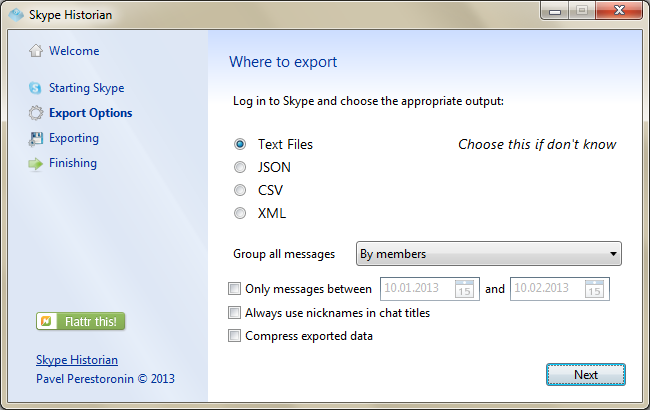
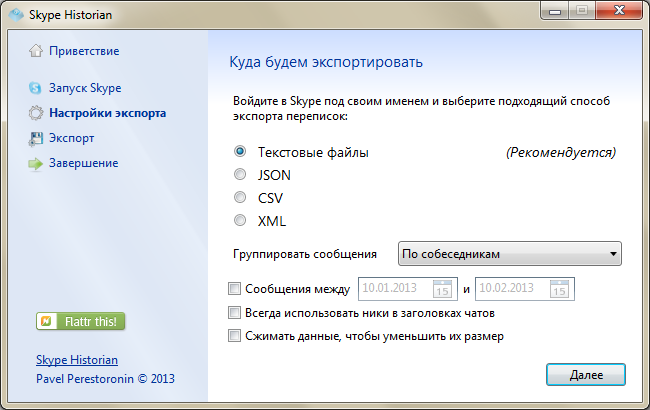
Russian version + small bugfixes

diff --git a/ru/index.html b/ru/index.html
@@ -58,11 +58,11 @@
           <a class="brand" href="">Skype Historian</a>
           <div class="nav-collapse collapse">
             <ul class="nav">
-              <li><a href="#about">About</a></li>
-              <li><a href="#screenshots">Screenshots</a></li>
-              <li><a href="#requirements">System Requirements</a></li>
-              <li><a href="#downloads">Downloads</a></li>
-              <li><a href="#news">News</a></li>
+              <li><a href="#about">О Skype Historian</a></li>
+              <li><a href="#screenshots">Скриншоты</a></li>
+              <li><a href="#requirements">Системные требования</a></li>
+              <li><a href="#downloads">Скачать</a></li>
+              <li><a href="#news">Новости</a></li>
             </ul>
           </div><!--/.nav-collapse -->
         </div>
@@ -77,7 +77,7 @@
         <div class="row">
           <div class="span12">
             <h1>Skype Historian</h1>
-            <p class="lead">Save your chats easily</p>
+            <p class="lead">простой способ сохранить историю Skype</p>
           </div>
         </div>
       </header>
@@ -87,17 +87,17 @@
       <section id="about">
 
         <div class="page-header">
-          <h1>About</h1>
+          <h1>О Skype Historian</h1>
         </div>
 
         <div class="row">
 
           <div class="span12">
-            <p>When you reinstall your operating system or change you computer you lose all your chats history. <strong>Skype Historian</strong> allows you to easily backup all your Skype chats to files in different formats. Files can also be compressed into a single ZIP archive.</p>
+            <p>Смена компьютера или переустановка операционной системы влечёт за собой потерю данных, в том числе, и историю ваших переписок. <strong>Skype Historian</strong> позволит вам сохранить эти переписки в различных форматах. Также можно сжать все данные в единственный ZIP архив.</p>
             <p>
-              <strong>Skype Historian</strong> allows to export your chats into the following formats:
+              С помощью <strong>Skype Historian</strong> вы сможете сохранить свои переписки в таких форматах, как:
               <ul>
-                <li>Plain Text Files</li>
+                <li>Простые текстовые файлы</li>
                 <li>JavaScript Object Notation</li>
                 <li>Comma-separated values</li>
                 <li>eXtensible Markup Language</li>
@@ -114,7 +114,7 @@
       <section id="screenshots">
 
         <div class="page-header">
-          <h1>Screenshots</h1>
+          <h1>Скриншоты</h1>
         </div>
 
         <div class="row">
@@ -123,22 +123,22 @@
             <ul class="thumbnails">
               <li class="span3">
                 <a href="images/screen-1.png" target="_blank" class="thumbnail">
-                  <img src="images/thumb-1.png" alt="Welcome Screen">
+                  <img src="images/thumb-1.png" alt="Приветствие">
                 </a>
               </li>
               <li class="span3">
                 <a href="images/screen-2.png" target="_blank" class="thumbnail">
-                  <img src="images/thumb-2.png" alt="Exporting Settings">
+                  <img src="images/thumb-2.png" alt="Настройки экспорта">
                 </a>
               </li>
               <li class="span3">
                 <a href="images/screen-3.png" target="_blank" class="thumbnail">
-                  <img src="images/thumb-3.png" alt="Exporting Process">
+                  <img src="images/thumb-3.png" alt="Экспортирование">
                 </a>
               </li>
               <li class="span3">
                 <a href="images/screen-4.png" target="_blank" class="thumbnail">
-                  <img src="images/thumb-4.png" alt="Finishing">
+                  <img src="images/thumb-4.png" alt="Завершение и статистика">
                 </a>
               </li>
             </ul>
@@ -153,17 +153,17 @@
       <section id="requirements">
 
         <div class="page-header">
-          <h1>System Requirements</h1>
+          <h1>Системные требования</h1>
         </div>
 
         <div class="row">
 
           <div class="span12">
-            <p><strong>Skype Historian</strong> runs pretty well on:
+            <p><strong>Skype Historian</strong> поддерживается:
               <ul>
                 <li><strong>Windows 8</strong></li>
                 <li><strong>Windows 7</strong></li>
-                <li>Windows XP with <a href="http://www.microsoft.com/download/en/details.aspx?id=21">.NET Framework 3.5</a> (or above) installed.</li>
+                <li>Windows XP с установленным <a href="http://www.microsoft.com/downloads/ru-ru/details.aspx?familyid=333325fd-ae52-4e35-b531-508d977d32a6">.NET Framework 3.5</a> (или выше).</li>
               </ul>
             </p>
           </div>
@@ -177,36 +177,36 @@
       <section id="downloads">
 
         <div class="page-header">
-          <h1>Downloads</h1>
+          <h1>Скачать</h1>
         </div>
 
         <div class="row">
 
           <div class="span12">
             <p>
-              You may download <strong>Skype Historian</strong> either from this site or our mirrors.
+              Вы можете скачать <strong>Skype Historian</strong> с этого сайта или одного из зеркал.
               <div class="btn-group">
-                <a href="/skype-historian/Skype_Historian_0.3.82.0_Setup.exe" class="btn btn-large btn-primary" onclick="_gaq.push(['_trackEvent', 'Downloads', 'Download', 'This Website']);">Download from This Website</a>
-                <a href="http://www.brothersoft.com/download-skype-historian-485475.html" class="btn btn-large"onclick="_gaq.push(['_trackEvent', 'Downloads', 'Download', 'Brothersoft']);">Download from Brothersoft</a>
-                <a href="http://skype-historian.software.informer.com/" class="btn btn-large"onclick="_gaq.push(['_trackEvent', 'Downloads', 'Download', 'Software Informer']);">Download from Software Informer</a>
+                <a href="/skype-historian/Skype_Historian_0.3.82.0_Setup.exe" class="btn btn-large btn-primary" onclick="_gaq.push(['_trackEvent', 'Downloads', 'Download', 'This Website']);" target="_blank">Скачать</a>
+                <a href="http://www.brothersoft.com/download-skype-historian-485475.html" class="btn btn-large"onclick="_gaq.push(['_trackEvent', 'Downloads', 'Download', 'Brothersoft']);" target="_blank">Скачать с Brothersoft</a>
+                <a href="http://skype-historian.software.informer.com/" class="btn btn-large"onclick="_gaq.push(['_trackEvent', 'Downloads', 'Download', 'Software Informer']);" target="_blank">Скачать с Software Informer</a>
               </div>
             </p>
             <p>
-              You may also support this <strong>free</strong> application in the following ways.
+              Вы также можете поддержать это <strong>бесплатное</strong> приложение с помощью одной из этих кнопок.
               <div class="btn-group">
-                <a href="http://flattr.com/thing/404856/Skype-Historian" class="btn btn-success" target="_blank">Flattr This!</a>
+                <a href="http://flattr.com/thing/404856/Skype-Historian" class="btn btn-success" target="_blank">Flattr</a>
                 <form method="POST" target="_blank" action="https://money.yandex.ru/quickpay/confirm.xml" style="display: inline">
                   <input name="receiver" type="hidden" value="410011693851843">
                   <input name="label" value="" type="hidden">
-                  <input name="FormComment" type="hidden" value="Skype Historian">
-                  <input name="short-dest" type="hidden" value="Skype Historian">
+                  <input name="FormComment" type="hidden" value="Поддержать Skype Historian">
+                  <input name="short-dest" type="hidden" value="Поддержать Skype Historian">
                   <input name="writable-targets" type="hidden" value="false">
                   <input name="writable-sum" type="hidden" value="false">
                   <input name="comment-needed" type="hidden" value="true">
                   <input name="quickpay-form" type="hidden" value="small">
-                  <input name="targets" type="hidden" value="Skype Historian">
+                  <input name="targets" type="hidden" value="Поддержать Skype Historian">
                   <input name="sum" type="hidden" maxlength="8" value="100">
-                  <input type="submit" class="btn btn-success" value="Yandex.Money">
+                  <input type="submit" class="btn btn-success" value="Яндекс.Деньги">
                   <input type="hidden" name="mail" value="1">
                 </form>
               </div>
@@ -222,52 +222,19 @@
       <section id="news">
 
         <div class="page-header">
-          <h1>News</h1>
+          <h1>Новости</h1>
         </div>
 
         <div class="row">
 
           <div class="span12">
-            <h3>Skype Historian 0.3.82 release <small>January 10, 2013</small></h3>
+            <h3>Skype Historian 0.3.82 <small>10 января 2013</small></h3>
             <ul>
-              <li>Workaround for those who faces with <strong>CannotGetMessageCollection</strong> error. <strong>Skype Historian</strong> now silently skips the chats that could not be obtained via Skype API instead of stopping.</li>
-              <li>Updated the website.</li>
+              <li>Небольшое исправление для пользователей, которые столкнулись с ошибкой <strong>CannotGetMessageCollection</strong>. Теперь приложение будет пропускать чаты, которые не удалось прочитать с помощью Skype API, не прерывая весь процесс экспортирования целиком.</li>
+              <li>Обновление сайта.</li>
             </ul>
 
-            <h3>Skype Historian 0.3.74.0 release</h3>
-            <ul>
-              <li><strong>Users with .NET Framework 4.0 or .NET Framework 4.5 installed will see clear fonts on the application window.</strong></li>
-              <li>Fixed incorrect statistics label.</li>
-              <li>Checkbox to easily locate the applications logs (useful when reporting bugs).</li>
-              <li>Feedback maximum length increased to 2000 characters.</li>
-            </ul>
-
-            <h3>Skype Historian 0.3 release</h3>
-            <ul>
-              <li>Ability to send a feedback after exporting.</li>
-              <li>Fixed installer scenario when Skype Historian is running during updating.</li>
-              <li>Exporting progress is now more exact.</li>
-            </ul>
-
-            <h3>Skype Historian 0.2.47.0</h3>
-            <ul>
-              <li><strong>Added date filter.</strong></li>
-            </ul>
-
-            <h3>Skype Historian 0.2</h3>
-            <ul>
-              <li><strong>Added update notifications.</strong></li>
-              <li><strong>Ability to use nicknames instead of full names in chat titles.</strong></li>
-              <li>Fixed invalid month name in Russian version.</li>
-              <li>Fixed the problem with empty messages.</li>
-              <li>Fixed hanging of the "Choose Output" page.</li>
-            </ul>
-
-            <h3>Skype Historian 0.1.40.0</h3>
-            <p>A minor release with several bugfixes.</p>
-
-            <h3>Skype Historian is released!</h3>
-            <p>I'm pleased to announce the first release of Skype Historian - the free application for exporting the Skype chats.</p>
+            <small>Более ранние новости для истории оставлены только в <a href="http://eigenein.github.com/skype-historian">английской версии</a> сайта.</small>
           </div>
 
         </div>
@@ -279,9 +246,9 @@
       <hr>
 
       <footer id="footer">
-        <p class="pull-right"><a href="#">Back to top</a></p>
-        <p>Made by <a target="_blank" href="http://eigenein.info">Pavel Perestoronin</a>. Submit bugs and feature requests to <a href="mailto:eigenein+skypehistorian@gmail.com">eigenein+skypehistorian@gmail.com</a>.<br/>
-        Based on <a target="_blank" href="http://twitter.github.com/bootstrap/">Bootstrap</a>. Hosted on <a target="_blank" href="http://pages.github.com/">GitHub</a>. Icons from <a target="_blank" href="http://glyphicons.com/">Glyphicons</a>. Web fonts from <a target="_blank" href="http://www.google.com/webfonts">Google</a>.</p>
+        <p class="pull-right"><a href="#">Наверх</a></p>
+        <p>Разработка <a target="_blank" href="http://eigenein.info">eigenein</a>. Описания ошибок и пожелания можно отправлять по адресу <a href="mailto:eigenein+skypehistorian@gmail.com">eigenein+skypehistorian@gmail.com</a>.<br/>
+        Страница на основе <a target="_blank" href="http://twitter.github.com/bootstrap/">Bootstrap</a>. Размещено на <a target="_blank" href="http://pages.github.com/">GitHub</a>. Иконки <a target="_blank" href="http://glyphicons.com/">Glyphicons</a>. Веб-шрифты <a target="_blank" href="http://www.google.com/webfonts">Google</a>.</p>
       </footer>
 
     </div> <!-- /container -->

diff --git a/index.html b/index.html
@@ -77,7 +77,7 @@
         <div class="row">
           <div class="span12">
             <h1>Skype Historian</h1>
-            <p class="lead">Save your chats easily</p>
+            <p class="lead">save your chats easily</p>
           </div>
         </div>
       </header>
@@ -186,9 +186,9 @@
             <p>
               You may download <strong>Skype Historian</strong> either from this site or our mirrors.
               <div class="btn-group">
-                <a href="/skype-historian/Skype_Historian_0.3.82.0_Setup.exe" class="btn btn-large btn-primary" onclick="_gaq.push(['_trackEvent', 'Downloads', 'Download', 'This Website']);">Download from This Website</a>
-                <a href="http://www.brothersoft.com/download-skype-historian-485475.html" class="btn btn-large"onclick="_gaq.push(['_trackEvent', 'Downloads', 'Download', 'Brothersoft']);">Download from Brothersoft</a>
-                <a href="http://skype-historian.software.informer.com/" class="btn btn-large"onclick="_gaq.push(['_trackEvent', 'Downloads', 'Download', 'Software Informer']);">Download from Software Informer</a>
+                <a href="/skype-historian/Skype_Historian_0.3.82.0_Setup.exe" class="btn btn-large btn-primary" onclick="_gaq.push(['_trackEvent', 'Downloads', 'Download', 'This Website']);" target="_blank">Download from This Website</a>
+                <a href="http://www.brothersoft.com/download-skype-historian-485475.html" class="btn btn-large"onclick="_gaq.push(['_trackEvent', 'Downloads', 'Download', 'Brothersoft']);" target="_blank">Download from Brothersoft</a>
+                <a href="http://skype-historian.software.informer.com/" class="btn btn-large"onclick="_gaq.push(['_trackEvent', 'Downloads', 'Download', 'Software Informer']);" target="_blank">Download from Software Informer</a>
               </div>
             </p>
             <p>
@@ -198,13 +198,13 @@
                 <form method="POST" target="_blank" action="https://money.yandex.ru/quickpay/confirm.xml" style="display: inline">
                   <input name="receiver" type="hidden" value="410011693851843">
                   <input name="label" value="" type="hidden">
-                  <input name="FormComment" type="hidden" value="Skype Historian">
-                  <input name="short-dest" type="hidden" value="Skype Historian">
+                  <input name="FormComment" type="hidden" value="Support Skype Historian">
+                  <input name="short-dest" type="hidden" value="Support Skype Historian">
                   <input name="writable-targets" type="hidden" value="false">
                   <input name="writable-sum" type="hidden" value="false">
                   <input name="comment-needed" type="hidden" value="true">
                   <input name="quickpay-form" type="hidden" value="small">
-                  <input name="targets" type="hidden" value="Skype Historian">
+                  <input name="targets" type="hidden" value="Support Skype Historian">
                   <input name="sum" type="hidden" maxlength="8" value="100">
                   <input type="submit" class="btn btn-success" value="Yandex.Money">
                   <input type="hidden" name="mail" value="1">
